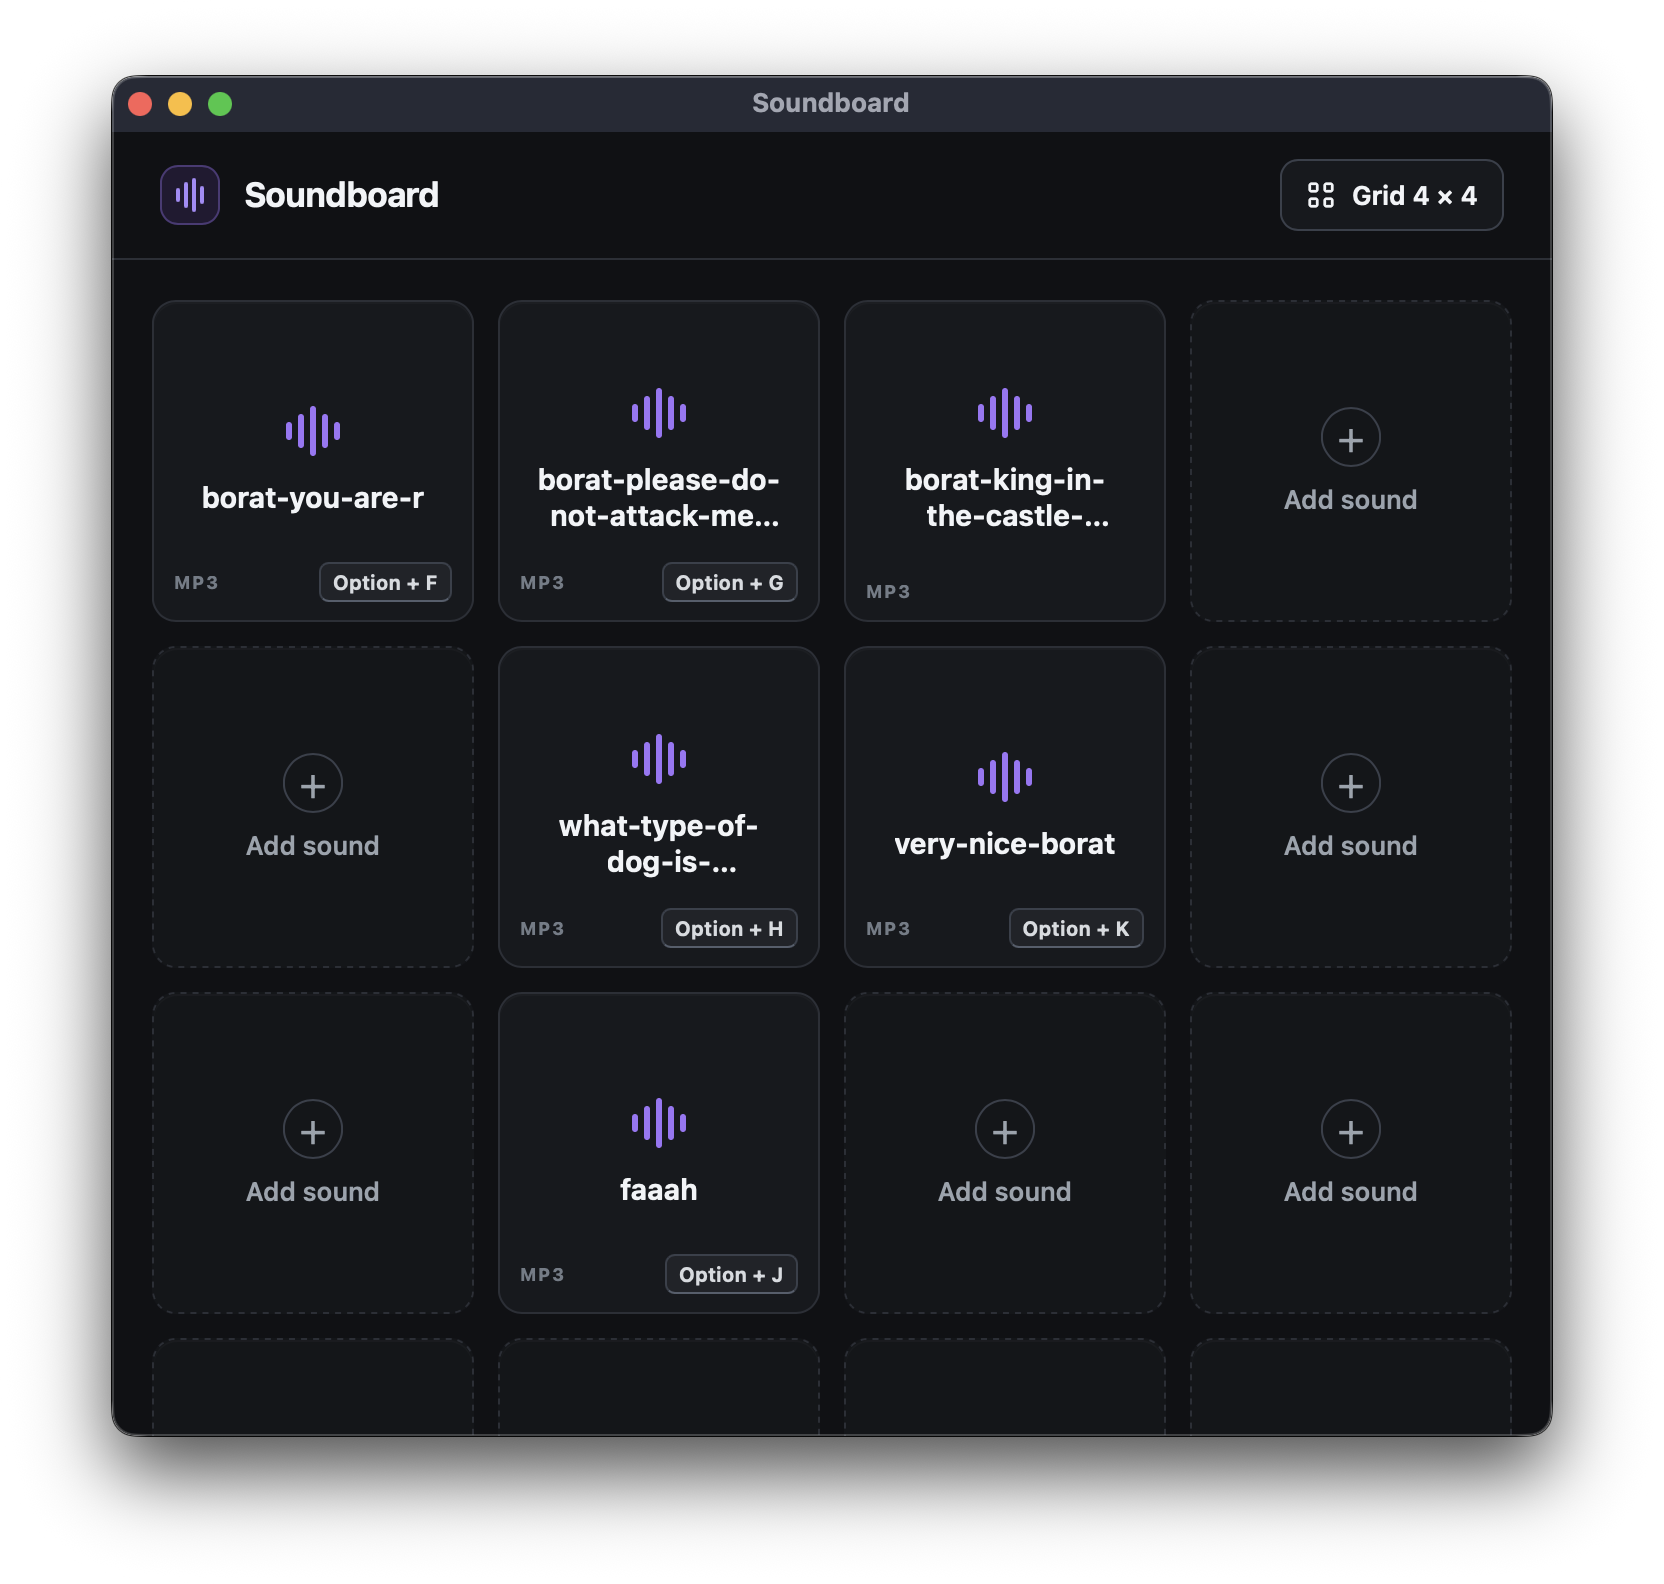
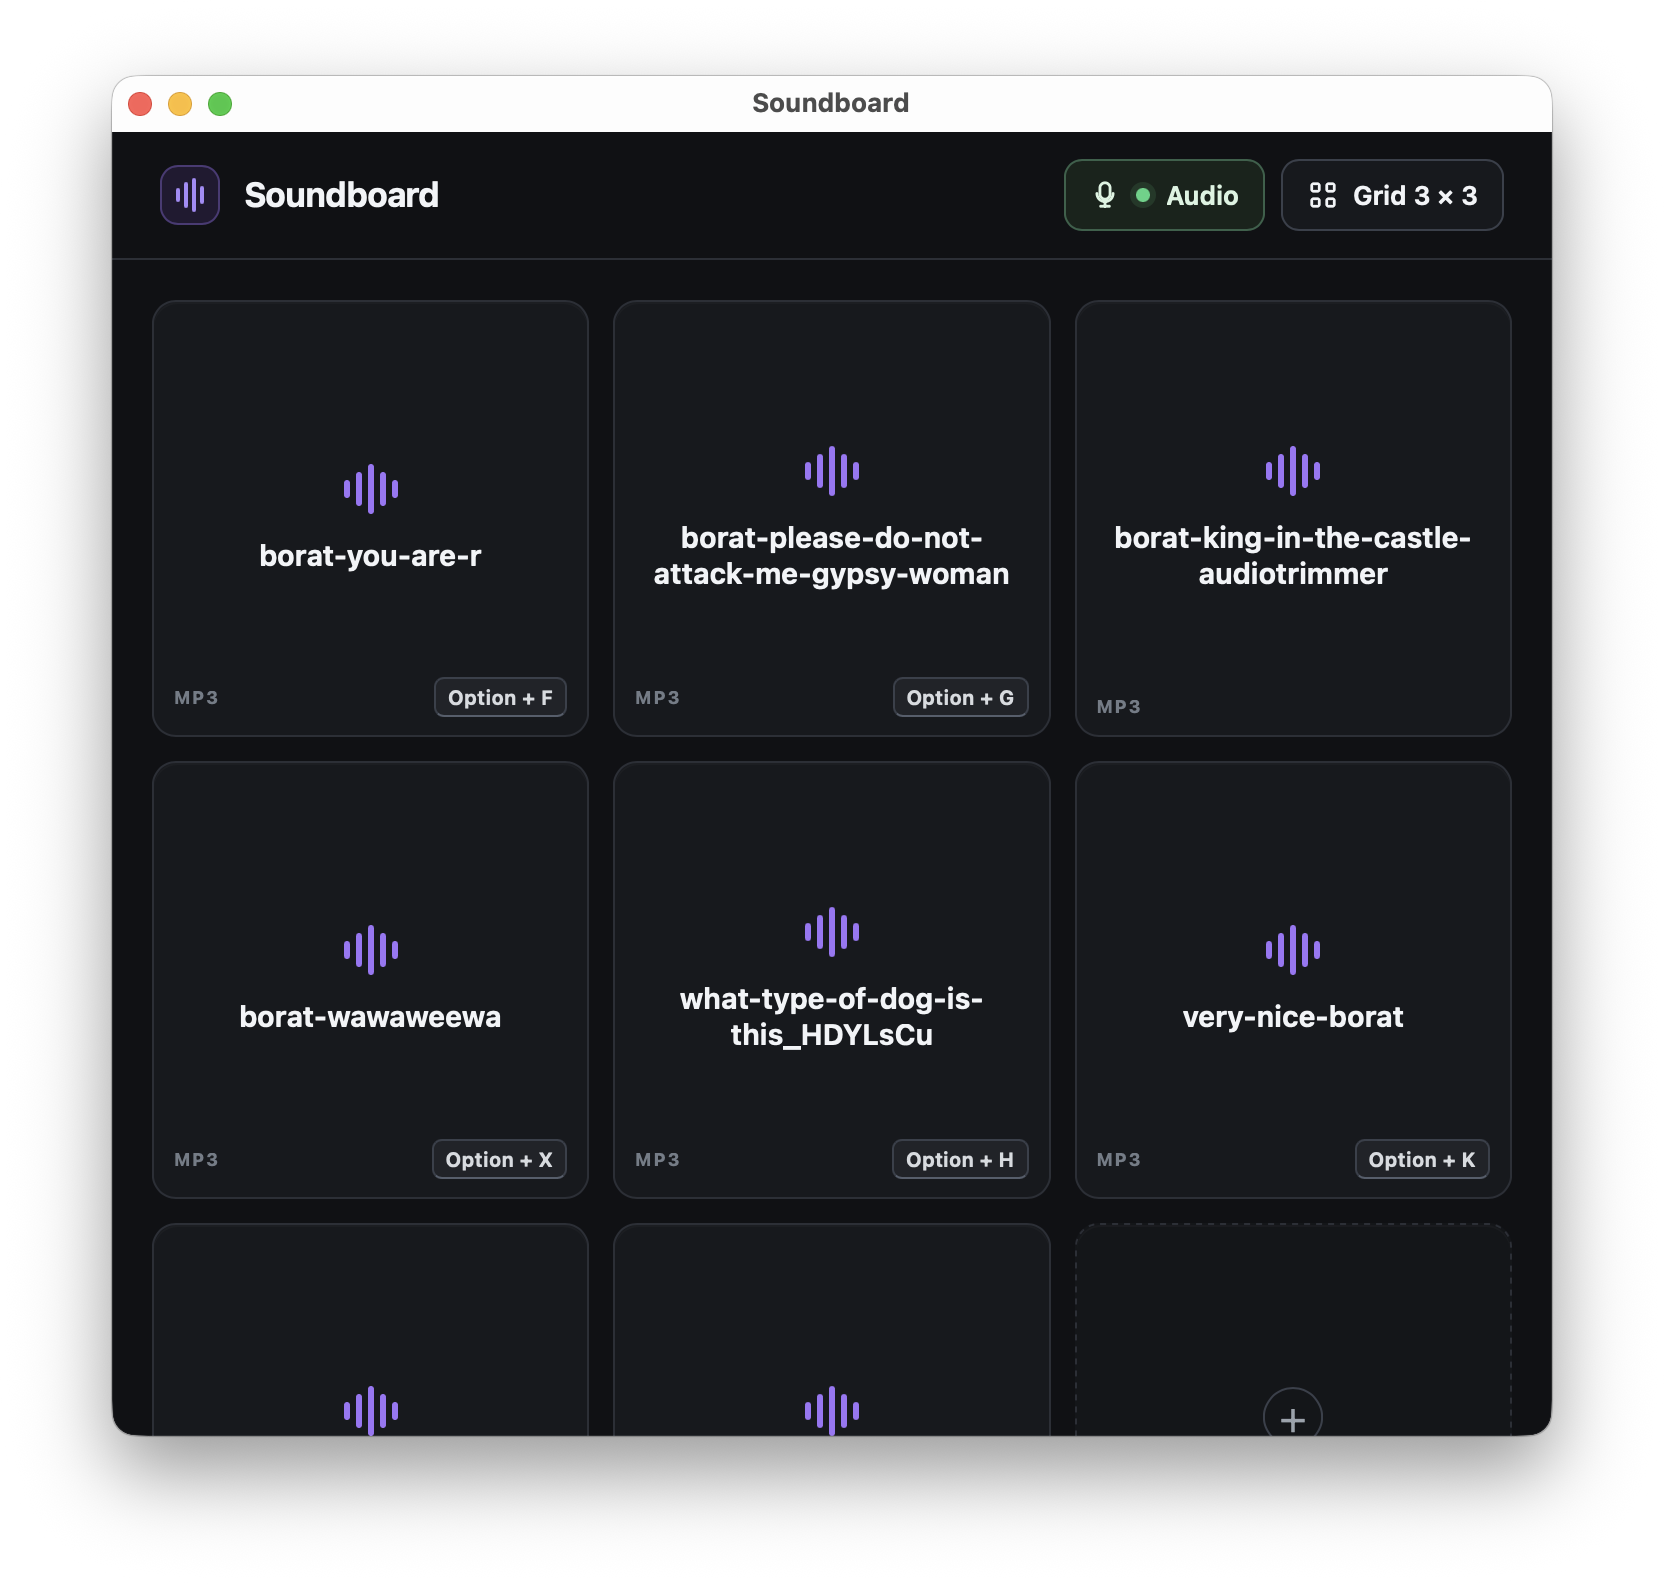
added images for virt mic

diff --git a/README.md b/README.md
@@ -9,7 +9,7 @@
 </p>
 
 <p align="center">
-  <img src="docs/images/soundboard-main-window.png" alt="Soundboard main window showing a 4 by 4 grid with imported sounds and keyboard shortcuts" width="900">
+  <img src="docs/images/soundboard-main-window.png" alt="Soundboard main window showing a 3 by 3 grid, imported sounds, keyboard shortcuts, and active audio routing" width="900">
 </p>
 
 ## Download
@@ -52,6 +52,10 @@ Soundboard uses an existing virtual audio driver; it does not install or bundle 
 - **Windows:** [VB-CABLE](https://vb-audio.com/Cable/) (run its installer as Administrator and reboot when requested)
 
 Then configure routing:
+
+<p align="center">
+  <img src="docs/images/soundboard-audio-routing.png" alt="Soundboard audio-routing dialog configured with a MacBook microphone and BlackHole 2ch virtual output" width="720">
+</p>
 
 1. Open **Audio** in the Soundboard header.
 2. Choose the physical microphone that carries your voice.
